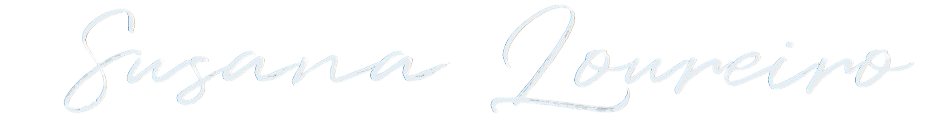
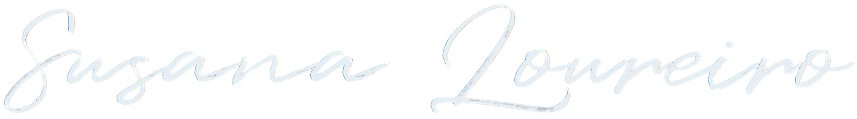
Updated README.md and assets

diff --git a/README.md b/README.md
@@ -1,12 +1,12 @@
 <p align="center">
   <img
     src="./assets/github-cover-light.png#gh-light-mode-only"
-    width="60%"
+    width="55%"
     alt="Susana Loureiro — AI / Machine Learning Engineer">
 
 <img
 src="./assets/github-cover-dark.png#gh-dark-mode-only"
-width="60%"
+width="55%"
 alt="Susana Loureiro — AI / Machine Learning Engineer">
 </p>
 
